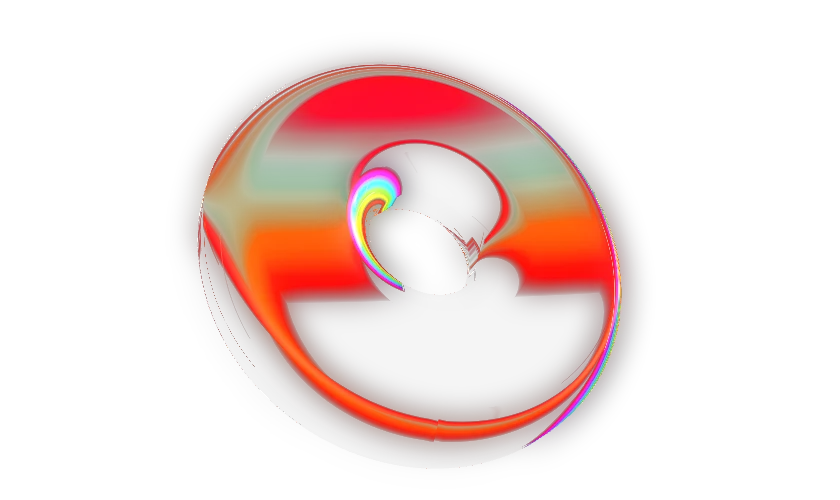
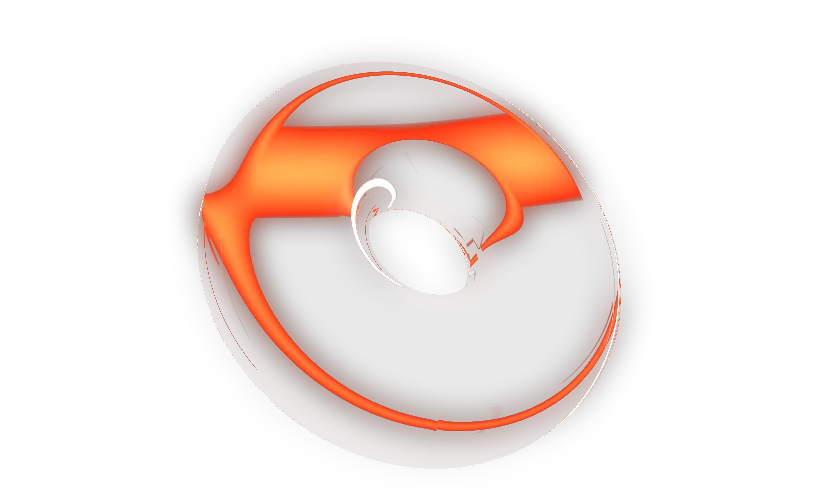
feat: LIVE 문구 정리 · NEWS 더 보기 칸 · 오브제 무지개 삭제와 주황 조정 (25차)
Claude-Session: https://claude.ai/code/session_01K6wp9fSxNiTgdEQgPG11gJ

Changed region(s): [[0.2167, 0.12, 0.7738, 0.9]]

diff --git a/js/wwd3d.js b/js/wwd3d.js
@@ -1,13 +1,13 @@
 /* AOMG Concept Redesign — wwd3d.js (ES module)
  * WHAT WE DO 카드 안 3D 오브제 (20차, 22차 재질 변경).
  * 사이트 앞에서 나온 모티프 4개: 두꺼운 CD · 유리 지구본 · 반짝임(히어로 스파크) · 매끈한 유리 덩어리.
- * 재질(23차, B4): 매끈한 투명 유리 + 프리즘. 조명 띠 12개 중 8개 주황 · 4개 가는 흰 빛(최소한).
- *       파장별로 굴절률을 달리해 가장자리에 무지개 결이 생김. 둘레의 은은한 번짐은 흐린 사본을 더해서 (빛 색 그대로).
+ * 재질(25차): 매끈한 투명 유리. 조명 띠 12개 중 8개 진한 주황 · 4개 가는 흰 빛(최소한). 무지개(분산) 없음.
+ *       둘레의 은은한 번짐은 흐린 사본을 더해서 (빛 색 그대로).
  * 렌더러 하나로 화면에 보이는 카드만 차례로 그려 각 카드의 2D 캔버스에 복사 (WebGL 컨텍스트 1개).
  * 실패하거나 동작 줄이기·1024px 미만이면 아무것도 하지 않음 → 카드의 미리 렌더한 이미지가 그대로 보임. */
 import * as THREE from 'three';
 
-const LIGHTS = [0xFF4A1F, 0xFF5A26, 0xFFFFFF]; // 주황 · 주황 · 흰 빛 순서로 반복
+const LIGHTS = [0xFF3918, 0xFF461C, 0xFFFFFF]; // 주황 · 주황 · 흰 빛 순서로 반복. 세기를 올려도 하얗게 뜨지 않도록 초록·파랑을 낮춘 진한 주황
 
 /* 환경: 거의 검정 + 화면 둘레에 가지런히 놓인 가는 빛 띠 12개(주황 8 · 흰 4). 유리가 이 띠를 굴절·반사할 때만 빛남 */
 function buildEnvCube(renderer) {
@@ -24,20 +24,20 @@ function buildEnvCube(renderer) {
   for (let i = 0; i < 12; i++) {
     const th = i / 12 * Math.PI * 2 + rnd() * 0.2, ph = (rnd() - 0.5) * 0.5, d = 12;
     const white = i % 3 === 2;
-    const w = white ? 0.15 + rnd() * 0.12 : 0.1 + rnd() * 0.12, h = 6 + rnd() * 8;
-    const k = white ? 4.8 : 2.8 + rnd() * 1.6;
+    const w = white ? 0.15 + rnd() * 0.12 : 0.16 + rnd() * 0.14, h = 6 + rnd() * 8;
+    const k = white ? 4.8 : 4.65 + rnd() * 2.05;
     const m = new THREE.Mesh(new THREE.PlaneGeometry(w * 3, h), new THREE.MeshBasicMaterial({ map: strip, color: new THREE.Color(LIGHTS[i % 3]).multiplyScalar(k), side: THREE.DoubleSide, transparent: true, blending: THREE.AdditiveBlending }));
     m.position.set(d * Math.cos(ph) * Math.cos(th), d * Math.sin(ph), d * Math.cos(ph) * Math.sin(th));
     m.lookAt(0, 0, 0); if (i % 3 === 0) m.rotateZ(Math.PI / 2);
     scene.add(m);
   }
-  scene.add(new THREE.Mesh(new THREE.SphereGeometry(30, 16, 8), new THREE.MeshBasicMaterial({ color: 0x060607, side: THREE.BackSide })));
+  scene.add(new THREE.Mesh(new THREE.SphereGeometry(30, 16, 8), new THREE.MeshBasicMaterial({ color: 0x0e0604, side: THREE.BackSide }) /* 유리 안쪽 아주 옅은 주황 기운 */));
   const rt = new THREE.WebGLCubeRenderTarget(256, { type: THREE.HalfFloatType });
   new THREE.CubeCamera(0.1, 100, rt).update(renderer, scene);
   return rt.texture;
 }
 
-/* 프리즘 유리 셰이더: 파장 8개로 나눠 굴절률을 달리 샘플(분산) + 프레넬 반사(가장자리).
+/* 유리 셰이더: 굴절(몸통) + 프레넬 반사(가장자리).
  * 출력 알파 = 밝기 → 어두운 몸통은 투명, 빛난 곳만 보임 */
 const glassMat = (env) => new THREE.ShaderMaterial({
   uniforms: { env: { value: env } },
@@ -47,17 +47,10 @@ const glassMat = (env) => new THREE.ShaderMaterial({
     void main() { vec4 w = modelMatrix * vec4(position, 1.0); vW = w.xyz; vN = normalize(mat3(modelMatrix) * normal); gl_Position = projectionMatrix * viewMatrix * w; }`,
   fragmentShader: /* glsl */`
     uniform samplerCube env; varying vec3 vN; varying vec3 vW;
-    vec3 spec(float t) { return clamp(vec3(abs(t * 6.0 - 3.0) - 1.0, 2.0 - abs(t * 6.0 - 2.0), 2.0 - abs(t * 6.0 - 4.0)), 0.0, 1.0); }
     void main() {
       vec3 N = normalize(vN), V = normalize(vW - cameraPosition);
       if (dot(N, V) > 0.0) N = -N;
-      vec3 col = vec3(0.0), wsum = vec3(0.0);
-      for (int i = 0; i < 8; i++) {
-        float t = float(i) / 7.0;
-        float eta = 1.0 / (1.45 - 0.25 + 0.5 * t);           // 분산 폭 0.5
-        vec3 w = spec(t); col += textureCube(env, refract(V, N, eta)).rgb * w; wsum += w;
-      }
-      col /= wsum;
+      vec3 col = textureCube(env, refract(V, N, 1.0 / 1.45)).rgb;
       float fr = pow(1.0 - max(dot(-V, N), 0.0), 3.0);
       vec3 refl = textureCube(env, reflect(V, N)).rgb;
       gl_FragColor = vec4(clamp((col * 0.85 + refl * 0.9 * fr) * 0.9, 0.0, 1.0), 1.0);
@@ -103,6 +96,12 @@ const geos = {
   },
 };
 
+/* 지구본 고리: 세로(경선) 3개 + 가로(위선) 3개 — 로고 지구본처럼 (25차) */
+function addGlobeRings(obj, mat) {
+  for (let i = 0; i < 3; i++) { const t = new THREE.Mesh(new THREE.TorusGeometry(1.2, 0.045, 24, 200), mat); t.rotation.y = i * Math.PI / 3; obj.add(t); }
+  [-0.6, 0, 0.6].forEach((y) => { const t = new THREE.Mesh(new THREE.TorusGeometry(Math.sqrt(1.2 * 1.2 - y * y), 0.045, 24, 200), mat); t.rotation.x = Math.PI / 2; t.position.y = y; obj.add(t); });
+}
+
 export function initWwd3D(section) {
   if (!section) return;
   if (matchMedia('(prefers-reduced-motion: reduce)').matches || !matchMedia('(min-width: 1024px)').matches) return;
@@ -119,7 +118,7 @@ export function initWwd3D(section) {
     const scene = new THREE.Scene();
     const mat = glassMat(env);
     const obj = new THREE.Mesh(geos[card.dataset.obj](), mat);
-    if (card.dataset.obj === 'globe') for (let i = 0; i < 3; i++) { const t = new THREE.Mesh(new THREE.TorusGeometry(1.2, 0.045, 24, 200), mat); t.rotation.y = i * Math.PI / 3; obj.add(t); }
+    if (card.dataset.obj === 'globe') addGlobeRings(obj, mat);
     scene.add(obj);
     return { card, box, canvas, ctx: canvas.getContext('2d'), scene, obj, ready: false };
   });

diff --git a/index.html b/index.html
@@ -25,7 +25,7 @@
   <link rel="stylesheet" href="https://fonts.googleapis.com/css2?family=Geist:wght@400;600&family=Instrument+Serif:ital@0;1&display=swap">
   <link rel="stylesheet" href="https://cdn.jsdelivr.net/gh/orioncactus/pretendard@v1.3.9/dist/web/variable/pretendardvariable-dynamic-subset.min.css">
   <link rel="preload" as="image" href="img/release-keyveatz-oxygen.webp">
-  <link rel="stylesheet" href="css/style.css?v=20261030-ft1">
+  <link rel="stylesheet" href="css/style.css?v=20261030-lno1">
   <script type="importmap">{ "imports": { "three": "./js/vendor/three.module.min.js" } }</script>
 </head>
 <body class="page-home">
@@ -180,7 +180,6 @@
       </div>
       <div class="live__body" data-reveal>
         <h2 class="section-title" id="live-title"><span data-copy="live.title">LIVE</span></h2>
-        <p class="section-subtitle" data-copy="live.subtitle">날짜와 장소, 예매 링크를 한곳에서 확인한다.</p>
         <ul class="event-list" data-render="events"></ul>
         <div class="empty-state" data-empty="events" hidden>
           <p data-copy="live.empty">지금 예정된 공연이 없어요.<br class="m-only"> 새 일정은 공식 인스타그램에서<br class="m-only"> 확인할 수 있어요.</p>
@@ -266,13 +265,13 @@
 
   <img class="artist-preview" alt="" aria-hidden="true">
 
-  <script src="js/data.js?v=20261030-ft1"></script>
-  <script src="js/player.js?v=20261030-ft1"></script>
-  <script src="js/script.js?v=20261030-ft1"></script>
-  <script src="js/effects.js?v=20261030-ft1"></script>
+  <script src="js/data.js?v=20261030-lno1"></script>
+  <script src="js/player.js?v=20261030-lno1"></script>
+  <script src="js/script.js?v=20261030-lno1"></script>
+  <script src="js/effects.js?v=20261030-lno1"></script>
   <script type="module">
-    import { createSoundScene } from './js/sound3d.js?v=20261030-ft1';
-    import { createLogoScene } from './js/logo3d.js?v=20261030-ft1';
+    import { createSoundScene } from './js/sound3d.js?v=20261030-lno1';
+    import { createLogoScene } from './js/logo3d.js?v=20261030-lno1';
     const section = document.getElementById('sound');
     const heroEl = document.getElementById('hero');
     const np = document.getElementById('np');
@@ -324,7 +323,7 @@
       .catch((e) => { console.warn(e); document.documentElement.classList.add('no-webgl'); });
     createLogoScene(document.getElementById('footer-canvas'), { mode: 'footer', interactive: false }).catch(() => {});
     // WHAT WE DO 카드 3D 오브제: 실패하면 미리 렌더한 이미지가 그대로 보임
-    import('./js/wwd3d.js?v=20261030-ft1').then((m) => m.initWwd3D(document.getElementById('what-we-do'))).catch(() => {});
+    import('./js/wwd3d.js?v=20261030-lno1').then((m) => m.initWwd3D(document.getElementById('what-we-do'))).catch(() => {});
   </script>
 </body>
 </html>

diff --git a/css/style.css b/css/style.css
@@ -480,6 +480,7 @@ html.js:not(.no-webgl) #now-playing-fallback { display: none; } /* WebGL·JS가 
 .event-list { margin-top: var(--space-heading-body); }
 .event { display: grid; grid-template-columns: repeat(2, minmax(0, 1fr)); column-gap: var(--grid-gap-x); row-gap: var(--space-card-text); padding-block: var(--space-card-text); font-family: var(--font-sans-en); font-size: var(--fs-body-6); line-height: var(--lh-paragraph-en); text-transform: uppercase; }
 .empty-state { margin-top: var(--space-heading-body); max-width: var(--readable-max); }
+.empty-state p { font-size: 14px; line-height: 1.6; } /* 25차: 일정 없음 문구 17 → 14px */
 .empty-state .cta { margin-top: var(--space-card-text); }
 @media (min-width: 768px) {
   .live__poster { grid-column: 1 / span 2; }
@@ -489,6 +490,12 @@ html.js:not(.no-webgl) #now-playing-fallback { display: none; } /* WebGL·JS가 
 
 /* ==== News (Kode justified-text-02: 112 / 256 패딩) ==== */
 .news { padding-top: var(--section-space); padding-bottom: var(--section-pad-end); }
+/* 25차: 뉴스 5번째 칸 — 카드 사진과 같은 비율의 얇은 선 칸 안에 이탤릭 More + 넓은 고딕 News. 마우스 올리면 글자만 주황 */
+.news-more a { container-type: inline-size; display: grid; place-items: center; aspect-ratio: var(--ratio-news-poster); border: 1px solid rgba(255, 255, 255, 0.35); color: var(--color-white); transition: color var(--dur-md) var(--ease-out); }
+.news-more a:hover, .news-more a:focus-visible { color: var(--color-bg-accent); }
+.news-more__text { display: flex; flex-direction: column; align-items: center; line-height: 0.9; }
+.news-more__text em { font-family: var(--font-display-en); font-style: italic; font-size: 24cqi; } /* 칸 폭에 맞춰 (1440px에서 약 58px) */
+.news-more__text span { font-family: var(--font-sans-en); font-weight: 600; font-size: 19cqi; letter-spacing: -0.04em; transform: scaleX(1.5); }
 
 /* ==== Footer (Kode footer: 100vh 검정) ==== */
 .footer { position: relative; overflow: hidden; min-height: var(--section-screen); padding-top: var(--section-pad-md); padding-bottom: calc(var(--hit-area) + 40px); align-content: end; background: var(--color-bg); color: var(--color-text-on-dark); }

diff --git a/artist.html b/artist.html
@@ -24,7 +24,7 @@
   <link rel="stylesheet" href="https://fonts.googleapis.com/css2?family=Geist:wght@400;600&family=Instrument+Serif:ital@0;1&display=swap">
   <link rel="stylesheet" href="https://cdn.jsdelivr.net/gh/orioncactus/pretendard@v1.3.9/dist/web/variable/pretendardvariable-dynamic-subset.min.css">
   <link rel="preload" as="image" href="img/artist-keyveatz.webp">
-  <link rel="stylesheet" href="css/style.css?v=20261030-ft1">
+  <link rel="stylesheet" href="css/style.css?v=20261030-lno1">
   <script type="importmap">{ "imports": { "three": "./js/vendor/three.module.min.js" } }</script>
 </head>
 <body class="page-artist">
@@ -135,12 +135,12 @@
     <div class="player__end"><button class="cta player__audio" type="button" data-action="audio-toggle" aria-pressed="false" aria-label="소리 켜기"><span class="cta__label" data-copy="audio.on">AUDIO ON</span></button><button class="cta" type="button" data-action="player-close" aria-label="플레이어 접기"><span class="cta__label">CLOSE</span></button></div>
   </div>
 
-  <script src="js/data.js?v=20261030-ft1"></script>
-  <script src="js/player.js?v=20261030-ft1"></script>
-  <script src="js/script.js?v=20261030-ft1"></script>
-  <script src="js/effects.js?v=20261030-ft1"></script>
+  <script src="js/data.js?v=20261030-lno1"></script>
+  <script src="js/player.js?v=20261030-lno1"></script>
+  <script src="js/script.js?v=20261030-lno1"></script>
+  <script src="js/effects.js?v=20261030-lno1"></script>
   <script type="module">
-    import { createLogoScene } from './js/logo3d.js?v=20261030-ft1';
+    import { createLogoScene } from './js/logo3d.js?v=20261030-lno1';
     createLogoScene(document.getElementById('footer-canvas'), { mode: 'footer', interactive: false }).catch(() => {});
   </script>
 </body>

diff --git a/js/script.js b/js/script.js
@@ -208,7 +208,9 @@
     bindArtistPreview(names);
     initDiscography();
     renderEvents(EVENTS, 'events');
-    $('[data-render="news"]').innerHTML = NEWS.map(newsCard).join('');
+    // 25차: 카드 4개 뒤 5번째 칸 = 뉴스 더 보기 (이탤릭 More + 넓은 고딕 News, 얇은 선 테두리). 누르면 인스타그램
+    $('[data-render="news"]').innerHTML = NEWS.map(newsCard).join('') +
+      `<li class="news-more"><a href="${AOMG.social.instagram}" target="_blank" rel="noopener" aria-label="뉴스 더 보기, 인스타그램 새 창"><span class="news-more__text" aria-hidden="true"><em>More</em><span>News</span></span></a></li>`;
   }
 
   /* ---------- artist.html 렌더링 ---------- */

diff --git a/docs/static-page-fix-log.md b/docs/static-page-fix-log.md
@@ -267,3 +267,11 @@
 |---|---|---|---|
 | 97 | 변경 | 인트로: ENTER 자리가 없다가 생기며 로고가 위로 42px 밀리던 것 → 버튼 자리를 처음부터 비워 로고는 끝까지 안 움직임. 로고가 다 맞춰지고 0.3초 뒤 ENTER가 24px 아래에서 0.7초에 걸쳐 올라오며 나타남 | `index.html`, `css/style.css`, `js/effects.js` |
 | 98 | 변경 | 푸터: 소개 문장(한·영), BUSINESS INQUIRY 이메일, 비공식 리디자인 안내 문구 삭제. SNS 4개만 굵게(600)·크게 2줄 양쪽 정렬로 화면 맨 아래(PLAYER 버튼과 안 겹치게). 마우스 올리면 히어로 배경색 #FF3B1F | `index.html`, `artist.html`, `css/style.css` |
+
+### 25차: LIVE 문구 · NEWS 더 보기 칸 · 오브제 색 (2026-10-30, LIVE · NEWS · 오브제 최종 시안 v3)
+
+| # | 구분 | 내용 | 파일 |
+|---|---|---|---|
+| 99 | 삭제·변경 | LIVE 설명 문구 "날짜와 장소, 예매 링크를 한곳에서 확인한다." 삭제, 일정 없음 문구 17 → 14px | `index.html`, `css/style.css` |
+| 100 | 추가 | NEWS 5번째 칸: 카드 사진과 같은 비율의 얇은 선 칸 안에 이탤릭 More + 넓은 고딕 News(칸 폭에 맞춘 크기). 마우스 올리면 글자만 주황, 누르면 인스타그램 새 창 | `js/script.js`, `css/style.css` |
+| 101 | 변경 | 오브제: 무지개(분산) 삭제. 주황 빛 세기·띠 굵기·유리 안쪽 주황 기운을 이전과 '주황 더 세게'의 중간으로, 색은 하얗게 뜨지 않게 이전의 진한 주황 유지. 지구본에 가로 고리 3개 추가(로고처럼). 멈춘 그림도 다시 렌더 | `js/wwd3d.js`, `img/wwd-*.webp` |

diff --git a/docs/copy-strategy.md b/docs/copy-strategy.md
@@ -362,7 +362,7 @@
 | `discography.subtitle` | (삭제, 2026-10-28) |
 | `live.title` | LIVE |
 | `live.caption` | 공연 일정 |
-| `live.subtitle` | 날짜와 장소, 예매 링크를 한곳에서 확인한다. |
+| `live.subtitle` | ~~날짜와 장소, 예매 링크를 한곳에서 확인한다.~~ (25차 삭제) |
 | `live.empty` | 지금 예정된 공연이 없어요. 새 일정은 공식 인스타그램에서 확인할 수 있어요. |
 | `news.title` | NEWS |
 | `news.caption` | AOMG 소식 |
@@ -420,6 +420,7 @@
 | key | 문구 |
 |---|---|
 | `wwd.eyebrow` | AOMG · WHAT WE DO |
+| `news.more` | *More* / News (뉴스 5번째 칸, 인스타그램 새 창) |
 | `wwd.title` | where *Sound* / *Becomes* / Culture (고딕 + 세리프 이탤릭) |
 | `wwd.sub` | 음악에서 시작해, 문화가 되는 곳. |
 | `wwd.card1.title` · `desc` | Music Production · 기획부터 녹음, 믹싱, 발매까지. 레이블의 사운드를 만듭니다. (임시) |
